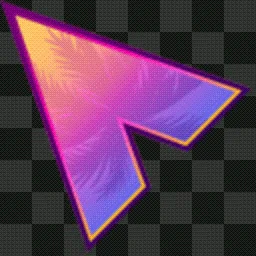
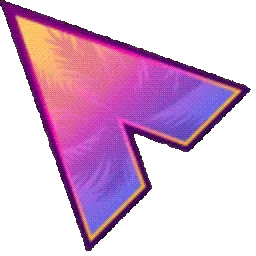
Animated gta style cursor

diff --git a/src/components/ui/CustomCursor.tsx b/src/components/ui/CustomCursor.tsx
@@ -1,0 +1,172 @@
+import { useEffect, useRef, useState } from 'react'
+import gsap from 'gsap'
+
+export function CustomCursor() {
+  const cursorRef = useRef<HTMLDivElement>(null)
+  const auraRef = useRef<HTMLDivElement>(null)
+  const [isHovered, setIsHovered] = useState(false)
+  const [isClicking, setIsClicking] = useState(false)
+  const [isVisible, setIsVisible] = useState(false)
+  const [isTouchDevice, setIsTouchDevice] = useState(true)
+
+  useEffect(() => {
+    // Only activate custom cursor on devices with fine pointer (mouse/trackpad)
+    const mediaQuery = window.matchMedia('(pointer: fine)')
+    const checkIsTouch = () => !mediaQuery.matches || 'ontouchstart' in window
+
+    if (checkIsTouch()) {
+      setIsTouchDevice(true)
+      return
+    }
+
+    setIsTouchDevice(false)
+    document.body.classList.add('has-custom-cursor')
+
+    const cursorEl = cursorRef.current
+    const auraEl = auraRef.current
+
+    if (!cursorEl || !auraEl) return
+
+    // Position setters with GSAP quickTo for 120fps silky smooth physics
+    const xTo = gsap.quickTo(cursorEl, 'x', { duration: 0.1, ease: 'power3.out' })
+    const yTo = gsap.quickTo(cursorEl, 'y', { duration: 0.1, ease: 'power3.out' })
+    
+    // Trailing aura follows with slight inertia
+    const auraXTo = gsap.quickTo(auraEl, 'x', { duration: 0.32, ease: 'power2.out' })
+    const auraYTo = gsap.quickTo(auraEl, 'y', { duration: 0.32, ease: 'power2.out' })
+
+    let lastX = 0
+    let lastY = 0
+
+    const onMouseMove = (e: MouseEvent) => {
+      const { clientX, clientY } = e
+      
+      if (!isVisible) setIsVisible(true)
+
+      // Update cursor position directly to mouse tip (0, 0 hotspot)
+      xTo(clientX)
+      yTo(clientY)
+
+      // Aura centered around the click point with gentle lag
+      auraXTo(clientX)
+      auraYTo(clientY)
+
+      // Subtle dynamic tilt based on mouse velocity
+      const vx = clientX - lastX
+      const vy = clientY - lastY
+      const speed = Math.hypot(vx, vy)
+      
+      if (speed > 1.5) {
+        const tilt = Math.max(-14, Math.min(14, (vx * 0.4)))
+        gsap.to(cursorEl, {
+          rotation: tilt,
+          duration: 0.2,
+          ease: 'power1.out',
+          overwrite: 'auto',
+        })
+      } else {
+        gsap.to(cursorEl, {
+          rotation: 0,
+          duration: 0.3,
+          ease: 'power2.out',
+          overwrite: 'auto',
+        })
+      }
+
+      lastX = clientX
+      lastY = clientY
+
+      // Check if hovering over interactive elements
+      const target = e.target as HTMLElement | null
+      if (target) {
+        const interactive = target.closest(
+          'a, button, [role="button"], input, select, textarea, label, [data-interactive="true"], .cursor-pointer'
+        )
+        setIsHovered(!!interactive)
+      }
+    }
+
+    const onMouseDown = () => setIsClicking(true)
+    const onMouseUp = () => setIsClicking(false)
+
+    const onMouseLeave = () => {
+      setIsVisible(false)
+      setIsHovered(false)
+    }
+
+    const onMouseEnter = () => {
+      setIsVisible(true)
+    }
+
+    window.addEventListener('mousemove', onMouseMove, { passive: true })
+    window.addEventListener('mousedown', onMouseDown)
+    window.addEventListener('mouseup', onMouseUp)
+    document.addEventListener('mouseleave', onMouseLeave)
+    document.addEventListener('mouseenter', onMouseEnter)
+
+    return () => {
+      document.body.classList.remove('has-custom-cursor')
+      window.removeEventListener('mousemove', onMouseMove)
+      window.removeEventListener('mousedown', onMouseDown)
+      window.removeEventListener('mouseup', onMouseUp)
+      document.removeEventListener('mouseleave', onMouseLeave)
+      document.removeEventListener('mouseenter', onMouseEnter)
+    }
+  }, [])
+
+  if (isTouchDevice) {
+    return null
+  }
+
+  return (
+    <div
+      className="fixed inset-0 pointer-events-none z-[99999] overflow-hidden transition-opacity duration-300"
+      style={{ opacity: isVisible ? 1 : 0 }}
+      aria-hidden="true"
+    >
+      {/* Ambient Trailing Glow / Aura */}
+      <div
+        ref={auraRef}
+        className="fixed top-0 left-0 -translate-x-1/2 -translate-y-1/2 pointer-events-none transition-transform duration-300 ease-out will-change-transform"
+        style={{
+          width: '56px',
+          height: '56px',
+          transform: `translate3d(0, 0, 0) scale(${isHovered ? 1.9 : isClicking ? 0.7 : 1})`,
+        }}
+      >
+        <div
+          className={`w-full h-full rounded-full blur-md transition-all duration-300 ${
+            isHovered
+              ? 'opacity-85 scale-110 bg-gradient-to-tr from-fuchsia-500/40 via-purple-500/30 to-cyan-400/50'
+              : 'opacity-40 bg-gradient-to-tr from-purple-500/25 via-pink-500/20 to-cyan-400/25'
+          }`}
+        />
+      </div>
+
+      {/* Main Custom Neon Arrow Pointer */}
+      <div
+        ref={cursorRef}
+        className="fixed top-0 left-0 pointer-events-none origin-top-left will-change-transform"
+        style={{
+          transform: 'translate3d(0, 0, 0)',
+        }}
+      >
+        <div
+          className="transition-transform duration-200 ease-out"
+          style={{
+            transform: `scale(${isClicking ? 0.84 : isHovered ? 1.18 : 1})`,
+          }}
+        >
+          <img
+            src="/cursor/custom-cursor.png"
+            alt=""
+            width={34}
+            height={34}
+            className="w-[34px] h-[34px] select-none pointer-events-none drop-shadow-[0_2px_10px_rgba(217,70,239,0.55)]"
+            draggable={false}
+          />
+        </div>
+      </div>
+    </div>
+  )
+}

diff --git a/src/App.tsx b/src/App.tsx
@@ -3,6 +3,7 @@ import { motion, AnimatePresence } from 'framer-motion'
 import { ThemeProvider } from './context/ThemeContext'
 import { Navbar, IntroLoader } from './components/layout'
 import { Hero, About, BookSkillsSection, Statement, Projects } from './components/sections'
+import { CustomCursor } from './components/ui'
 import { useScrollSpy } from './hooks/useScrollSpy'
 import { RotateCcw } from 'lucide-react'
 
@@ -12,7 +13,11 @@ export function AppContent() {
 
   return (
     <div className="relative min-h-screen bg-[var(--bg)] text-[var(--text)] overflow-x-hidden selection:bg-[var(--accent)] selection:text-black transition-colors duration-400">
+      {/* Custom Modern Animated Cursor */}
+      <CustomCursor />
+
       {/* 3D Spiral Particle Loading Screen */}
+
       <AnimatePresence>
         {showIntro && (
           <IntroLoader

diff --git a/src/index.css b/src/index.css
@@ -131,3 +131,16 @@ body {
     transform-origin: right;
   }
 }
+
+/* Custom Neon Cursor Styles */
+@media (pointer: fine) {
+  body {
+    cursor: url('/cursor/cursor-32.png') 0 0, auto;
+  }
+
+  body.has-custom-cursor,
+  body.has-custom-cursor * {
+    cursor: none !important;
+  }
+}
+

diff --git a/src/components/ui/index.ts b/src/components/ui/index.ts
@@ -1,1 +1,2 @@
 export * from './spiral-animation'
+export * from './CustomCursor'
